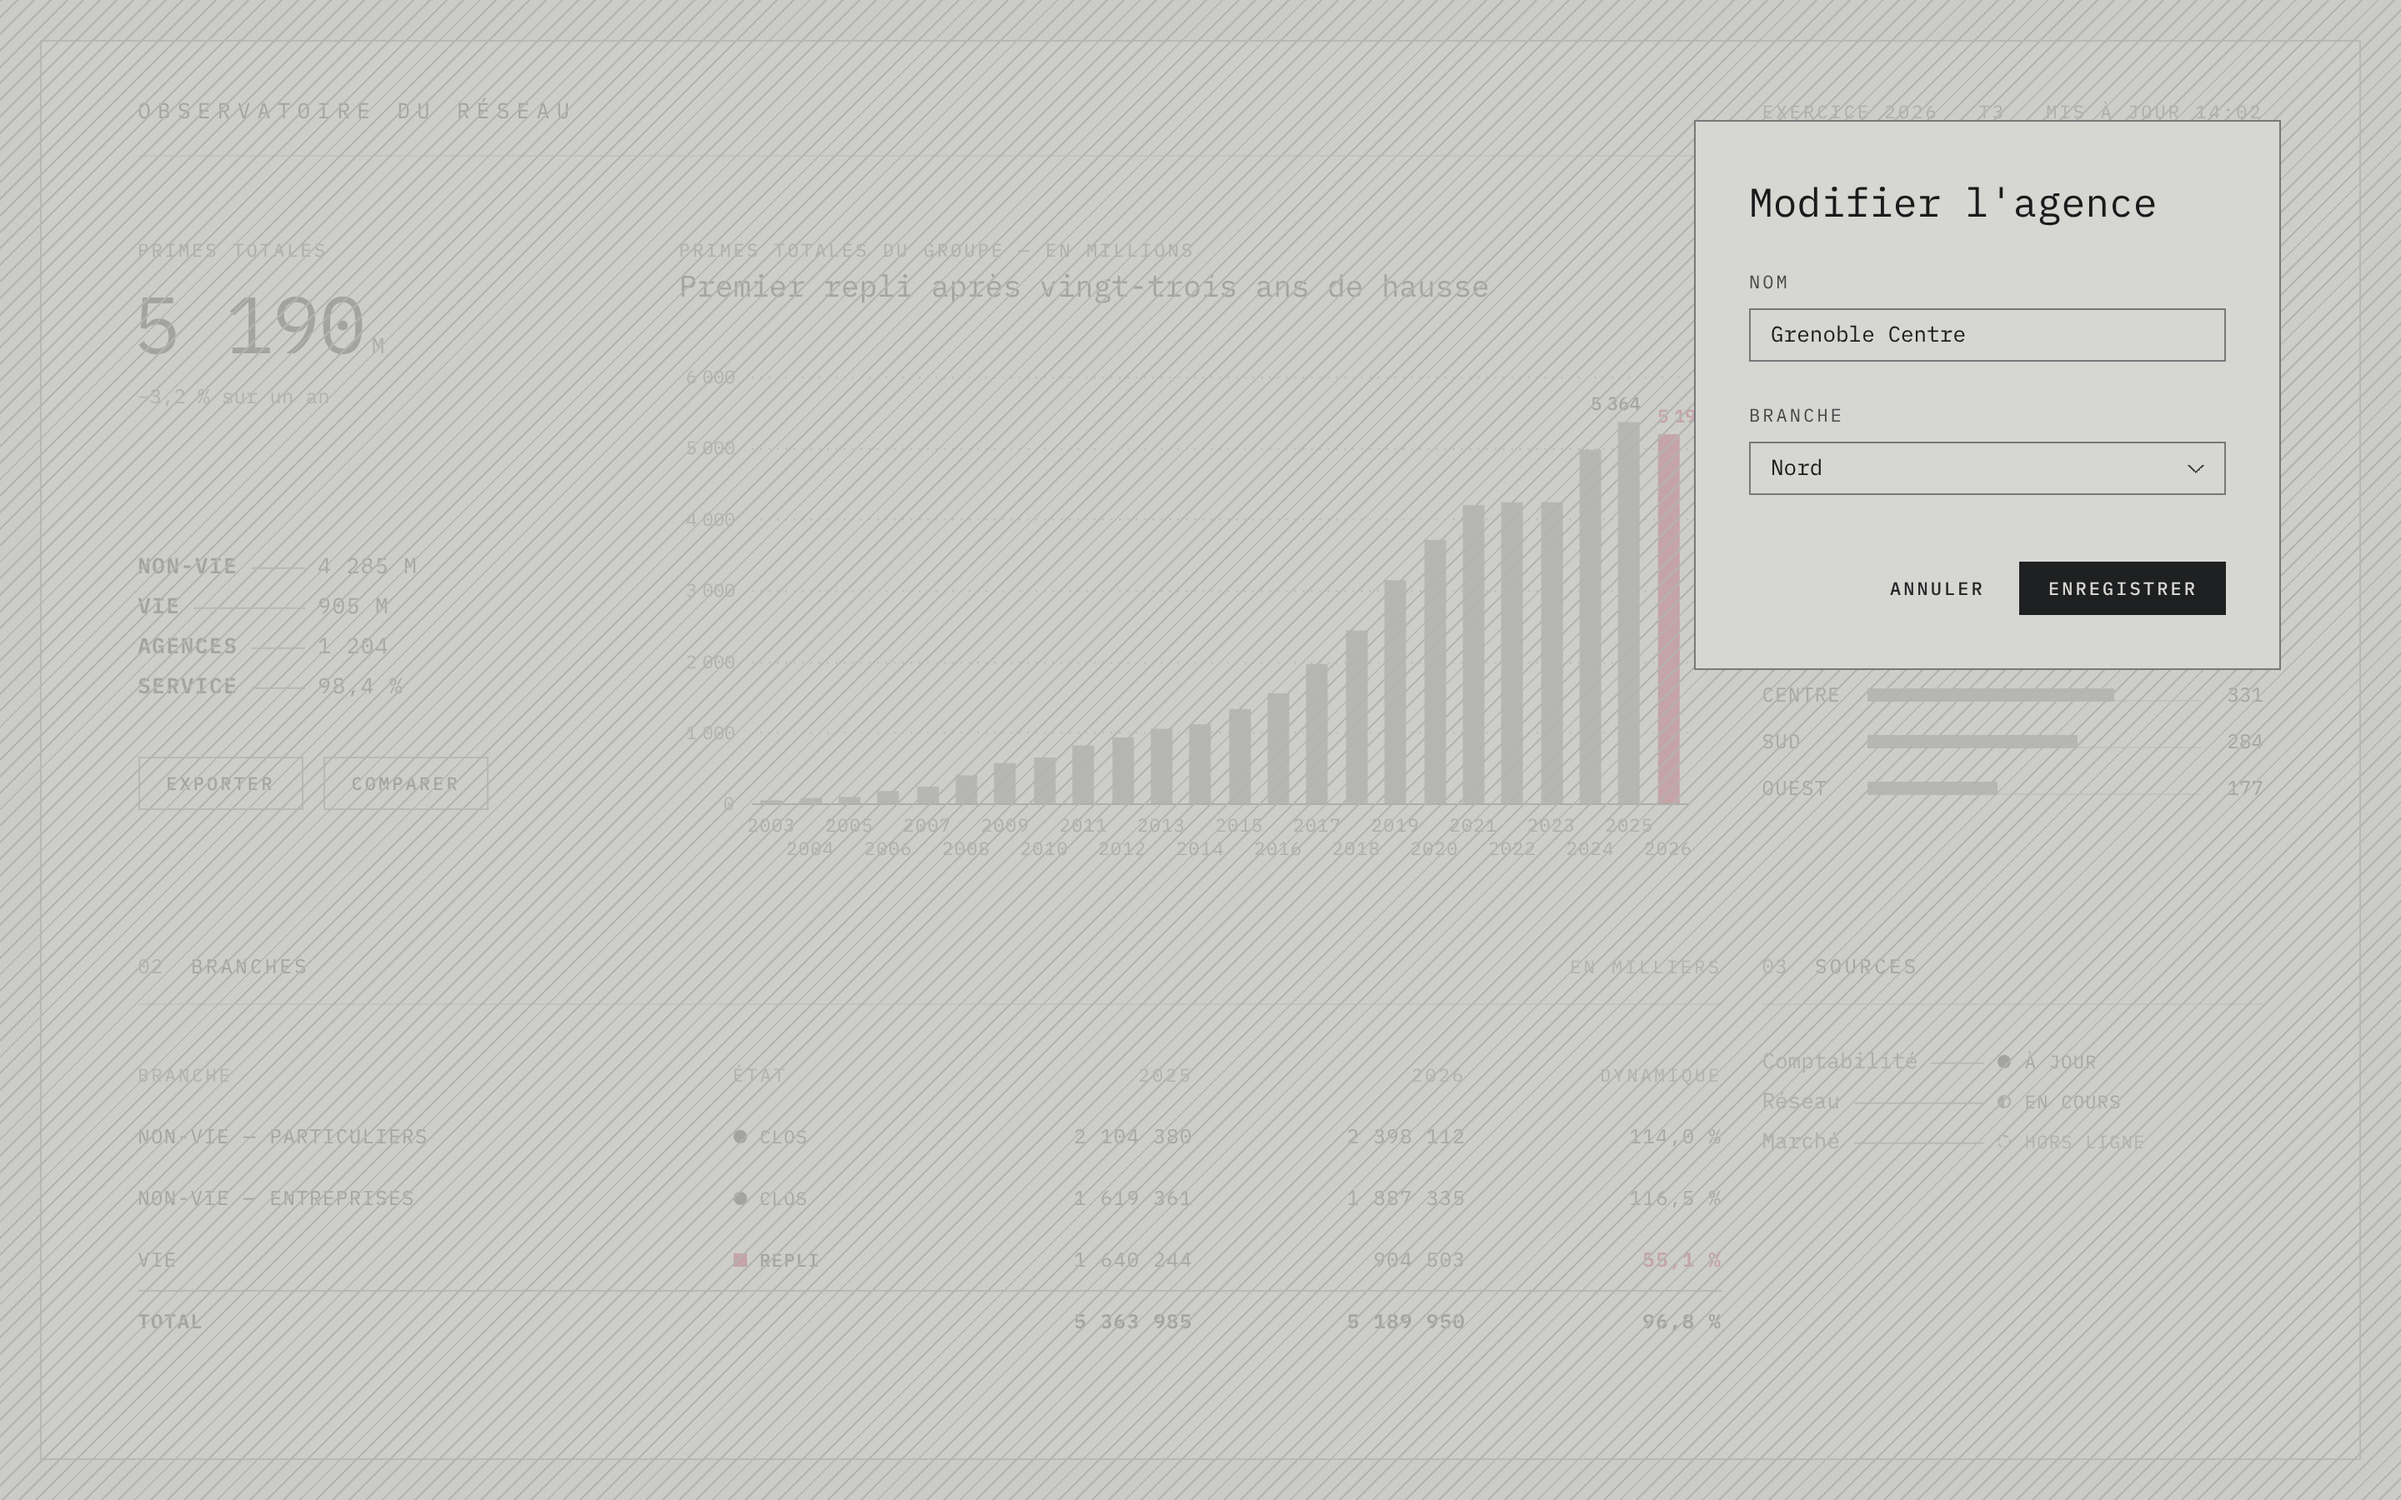
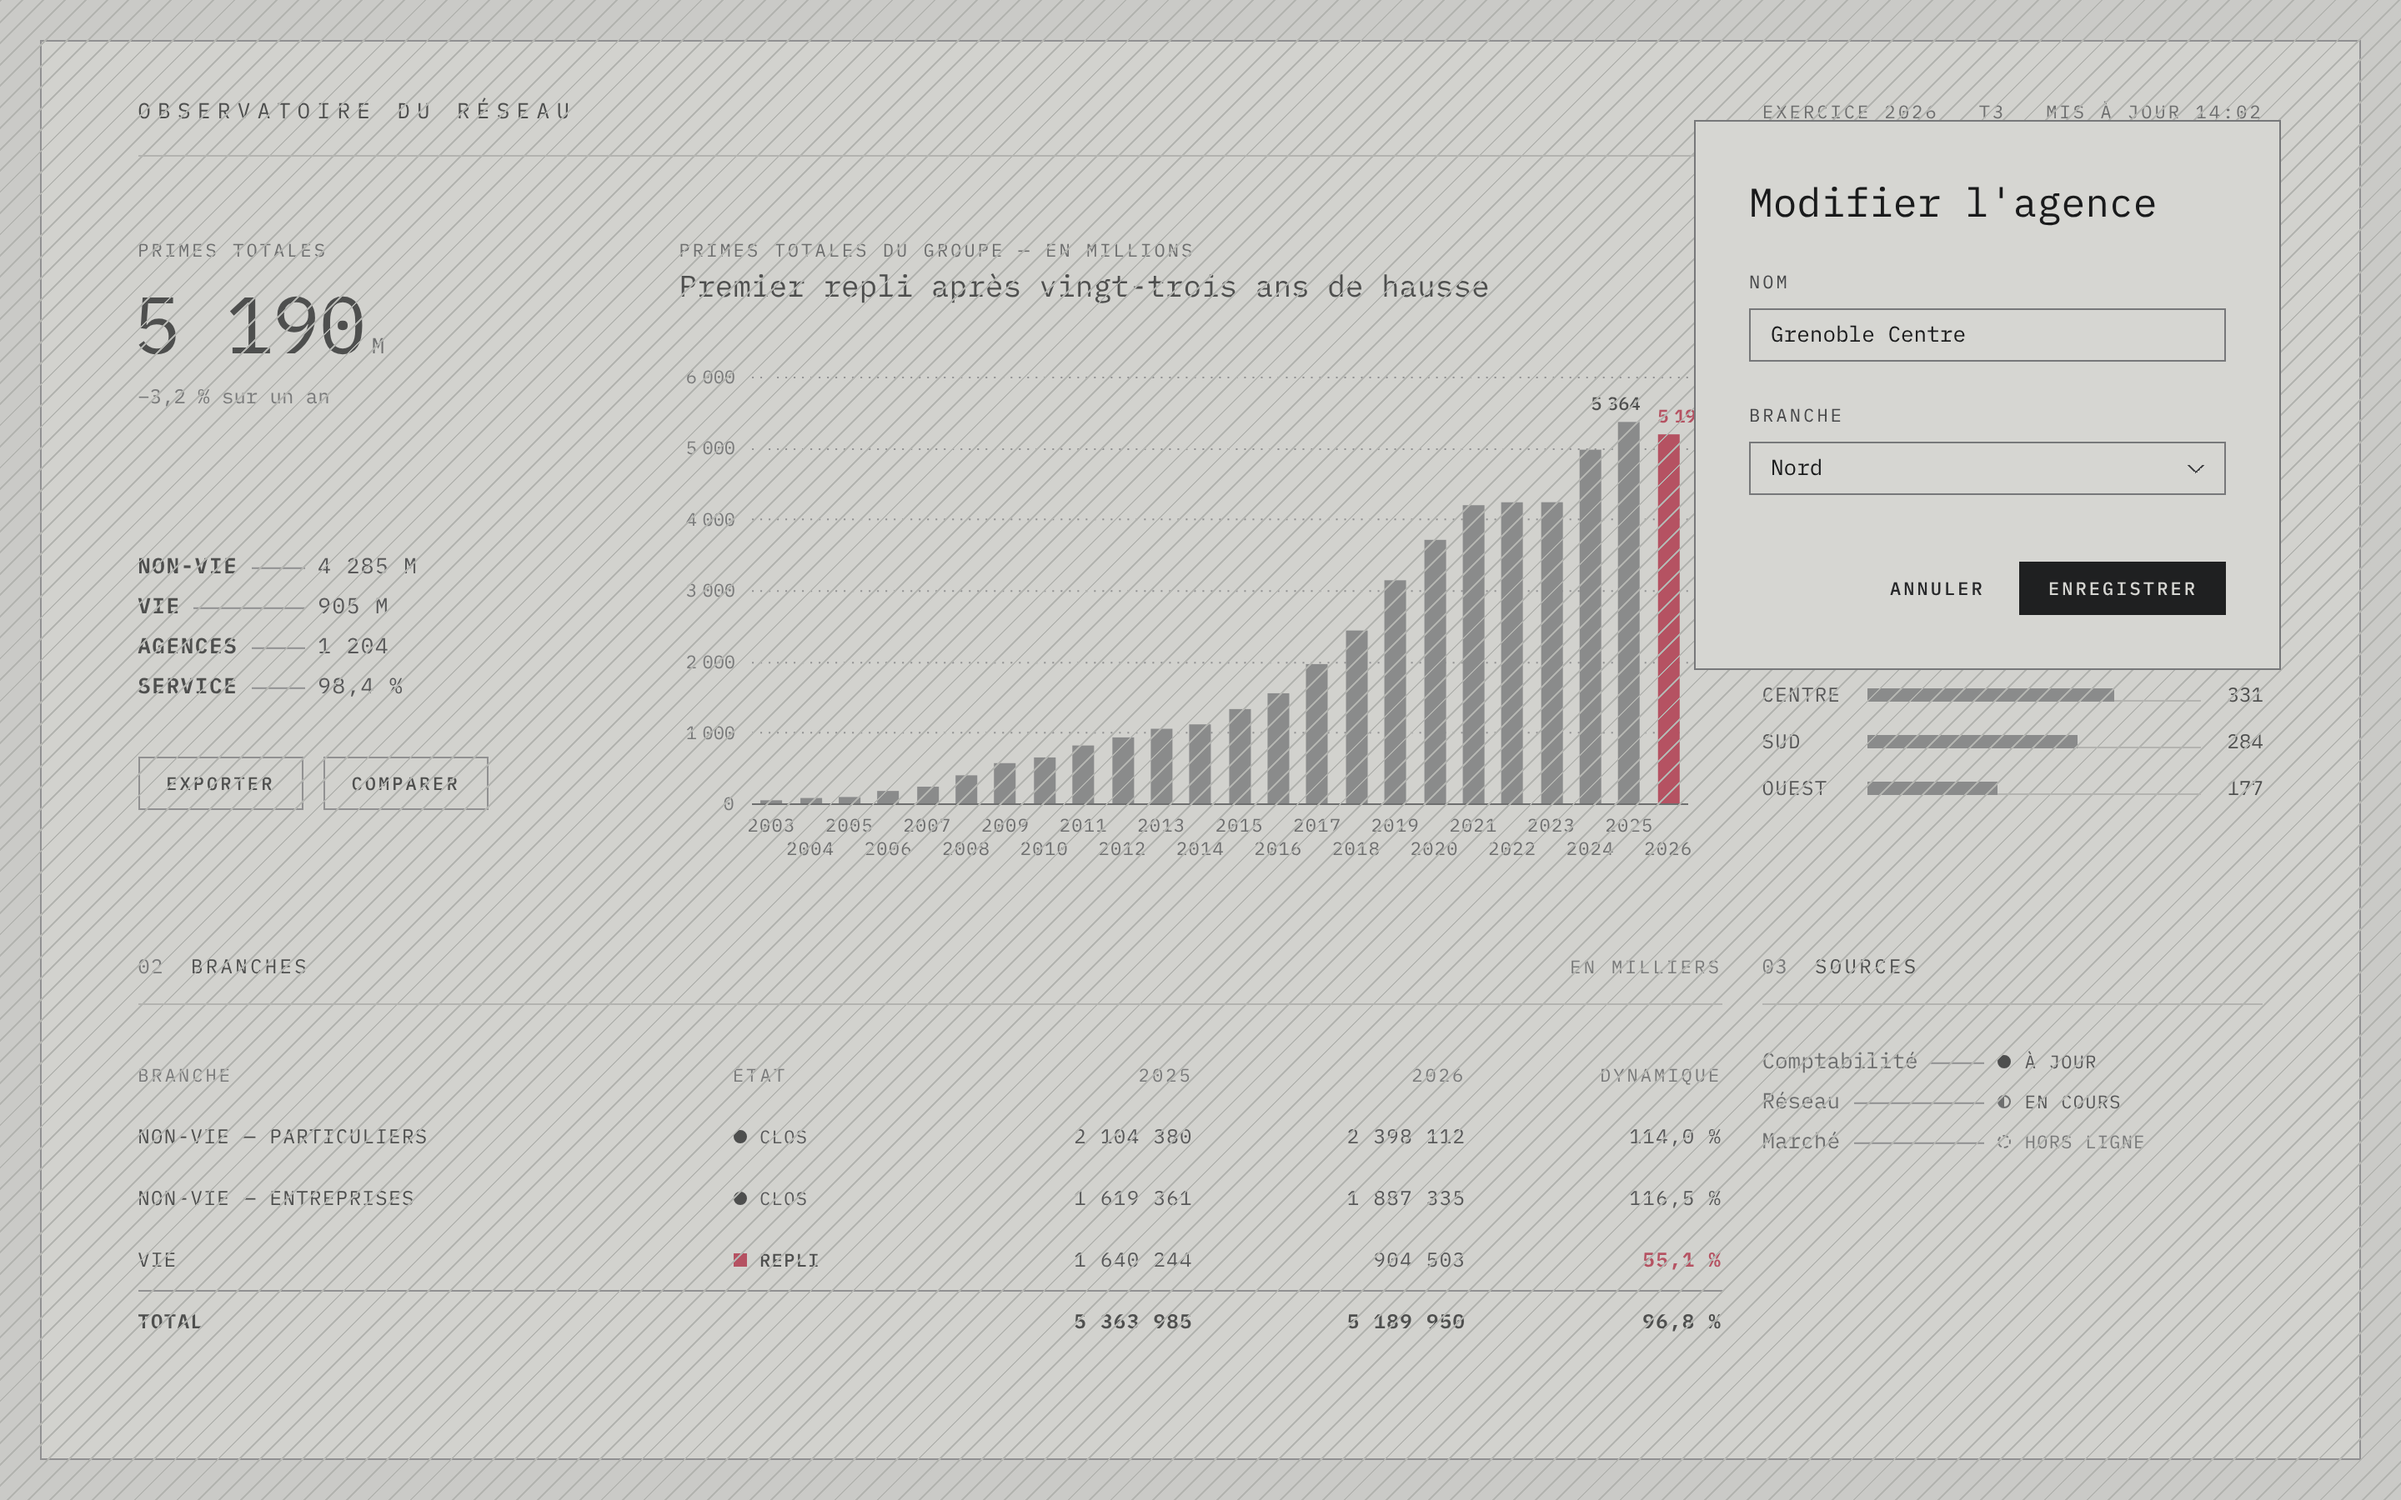
Sous une modale, la page reste lisible
Voile ramené de 78 % à 30 %, hachures espacées de 7 à 9 px : on garde
le contexte, et ce sont les hachures qui disent que la page ne répond
plus. Règle K4 réécrite, captures refaites. Décision D-052.

Claude-Session: https://claude.ai/code/session_01Jzhjh4Bm92CMpkoPPaRiQr

Changed region(s): [[0.0, 0.0311, 1.0, 0.9956]]

diff --git a/catalogue/assets/search-index.js b/catalogue/assets/search-index.js
@@ -98,7 +98,7 @@ window.MonoSearchIndex = {"pages":[["index.html","Présentation"],["fondations.h
 {"p":2,"id":"regle-k6","y":"regle","t":"À gauche la collection, à droite le détail","c":"K6","s":"Cadre","k":"","x":"L'inspecteur est permanent et ne bloque rien : on change de ligne sans le fermer, et la bande de plan de travail qui le sépare de la collection se saisit pour le redimensionner. Le détail d'un élément ne s'ouvre jamais en modale."},
 {"p":2,"id":"regle-k8","y":"regle","t":"Pas de cloison dans la page","c":"K8","s":"Cadre","k":"","x":"Deux régions d'une même page se séparent par l'espace — au moins 64 px, quatre fois l'écart interne — jamais par un filet vertical. Les filets horizontaux qui s'arrêtent net et un axe de texte propre suffisent à dire où l'une finit."},
 {"p":2,"id":"regle-k7","y":"regle","t":"Dans la page, ou hors de la page","c":"K7","s":"Cadre","k":"","x":"L'image dit à qui un contenu appartient. Séparé par l'espace seul, il est dans la page : il suit son onglet. Posé à côté, dans sa propre page à contour, il est hors de la page : il ne dépend d'aucun onglet. Un inspecteur est attaché par défaut ; on l'épingle pour le sortir, on le rattache pour le rentrer."},
-{"p":2,"id":"regle-k4","y":"regle","t":"Légères","c":"K4","s":"Cadre","k":".t-label","x":"Traits d'un pixel à 135°, tous les 7 px, sur un voile au ton du plan de travail. Défilement Puisque la page a un contour, elle ne peut pas glisser hors de l'écran : le contour resterait ouvert. La page tient dans l'écran, et c'est ce qu'elle contient qui défile."},
+{"p":2,"id":"regle-k4","y":"regle","t":"Lisible dessous","c":"K4","s":"Cadre","k":".t-label","x":"Sous une modale, la page garde son contexte : le voile est léger (30 %) et l'on peut encore la lire. Ce sont les hachures — un pixel, à 135°, tous les 9 px — qui disent qu'elle ne répond plus. Défilement Puisque la page a un contour, elle ne peut pas glisser hors de l'écran : le contour resterait ouvert. La page tient dans l'écran, et c'est ce qu'elle contient qui défile."},
 {"p":2,"id":"regle-s1","y":"regle","t":"L'écran ne défile jamais","c":"S1","s":"Cadre","k":"","x":"Le plan de travail occupe exactement l'écran et la page y tient entière, contour compris. C'est le contenu de la page qui défile, à l'intérieur de son contour : le cadre ne bouge pas."},
 {"p":2,"id":"regle-s2","y":"regle","t":"Une seule zone défile","c":"S2","s":"Cadre","k":".l-pane__body .l-shell","x":"Par page et par axe. Dans une application, c'est le corps du volet ( .l-pane__body ) ; dans un document, c'est la page ( .l-shell ). Jamais une zone défilante dans une autre sur le même axe : ni tableau à hauteur fixe dans un volet, ni liste dans une fiche."},
 {"p":2,"id":"regle-s3","y":"regle","t":"Ce qui situe reste en place","c":"S3","s":"Cadre","k":"","x":"En-tête, onglets, fil d'Ariane, barre d'état et en-tête de tableau figé ne défilent pas. Un filet n'apparaît sous l'en-tête que lorsque du contenu est passé dessous, au-dessus de la barre d'état que lorsqu'il en reste : au repos, aucun trait."},

diff --git a/catalogue/composition.html b/catalogue/composition.html
@@ -302,7 +302,7 @@
             <div class="cat-rule" id="regle-k6" data-search="regle"><span class="cat-rule__num">K6</span><h3>À gauche la collection, à droite le détail</h3><p>L'inspecteur est permanent et ne bloque rien : on change de ligne sans le fermer, et la bande de plan de travail qui le sépare de la collection se saisit pour le redimensionner. Le détail d'un élément ne s'ouvre jamais en modale.</p></div>
             <div class="cat-rule" id="regle-k8" data-search="regle"><span class="cat-rule__num">K8</span><h3>Pas de cloison dans la page</h3><p>Deux régions d'une même page se séparent par l'espace — au moins 64 px, quatre fois l'écart interne — jamais par un filet vertical. Les filets horizontaux qui s'arrêtent net et un axe de texte propre suffisent à dire où l'une finit.</p></div>
             <div class="cat-rule" id="regle-k7" data-search="regle"><span class="cat-rule__num">K7</span><h3>Dans la page, ou hors de la page</h3><p>L'image dit à qui un contenu appartient. Séparé par l'espace seul, il est dans la page : il suit son onglet. Posé à côté, dans sa propre page à contour, il est hors de la page : il ne dépend d'aucun onglet. Un inspecteur est attaché par défaut ; on l'épingle pour le sortir, on le rattache pour le rentrer.</p></div>
-            <div class="cat-rule" id="regle-k4" data-search="regle"><span class="cat-rule__num">K4</span><h3>Légères</h3><p>Traits d'un pixel à 135°, tous les 7 px, sur un voile au ton du plan de travail.</p></div>
+            <div class="cat-rule" id="regle-k4" data-search="regle"><span class="cat-rule__num">K4</span><h3>Lisible dessous</h3><p>Sous une modale, la page garde son contexte : le voile est léger (30 %) et l'on peut encore la lire. Ce sont les hachures — un pixel, à 135°, tous les 9 px — qui disent qu'elle ne répond plus.</p></div>
           </div>
           <h3 class="t-label" id="defilement-titre">Défilement</h3>
           <p class="cat-note">Puisque la page a un contour, elle ne peut pas glisser hors de l'écran : le contour resterait ouvert. La page tient dans l'écran, et c'est ce qu'elle contient qui défile.</p>

diff --git a/src/components.css b/src/components.css
@@ -306,9 +306,10 @@ th[aria-sort="ascending"] .c-table__sort .c-icon, th[aria-sort="descending"] .c-
 .c-dialog[open] { display: flex; flex-direction: column; }
 /* Fond d'une modale : la page dessous est hachurée. En dessin technique, une zone hachurée est
    une zone exclue — c'est exactement ce qu'elle est tant que la modale est ouverte. Les hachures
-   n'apparaissent nulle part ailleurs. (repeating-linear-gradient ne sert qu'à tracer des traits
+   n'apparaissent nulle part ailleurs. Le voile est léger (30 %) : la page reste lisible dessous,
+   on garde son contexte ; ce sont les hachures qui disent qu'elle ne répond plus. (repeating-linear-gradient ne sert qu'à tracer des traits
    nets d'un pixel : il n'y a aucun dégradé visible.) */
-.c-dialog::backdrop { background-color: color-mix(in srgb, var(--desk) 78%, transparent); background-image: repeating-linear-gradient(135deg, var(--hatch) 0, var(--hatch) 1px, transparent 1px, transparent 7px); }
+.c-dialog::backdrop { background-color: color-mix(in srgb, var(--desk) 30%, transparent); background-image: repeating-linear-gradient(135deg, var(--hatch) 0, var(--hatch) 1px, transparent 1px, transparent 9px); }
 /* --small : une question d'une ligne. --large : contenu large (tableau, « Aller à »), centré. */
 .c-dialog--small { width: min(18rem, calc(100vw - 2rem)); }
 .c-dialog--large { width: min(48rem, calc(100vw - 2rem)); margin: 12vh auto auto; max-height: min(76vh, 44rem); }

diff --git a/docs/decisions.md b/docs/decisions.md
@@ -72,6 +72,7 @@ Les principes eux-mêmes sont dans `philosophie.md` ; ici, c'est leur histoire.
 | D-049 | Modales portrait : le chiffre, l'étiquette, la colonne | adoptée, voir D-050 |
 | D-050 | La modale est portrait par défaut | remplacée par D-051 |
 | D-051 | La modale est excentrée à droite, minimale | en vigueur |
+| D-052 | Sous une modale, la page reste lisible | en vigueur |
 
 ---
 
@@ -468,3 +469,11 @@ Les principes eux-mêmes sont dans `philosophie.md` ; ici, c'est leur histoire.
 - **Réserve de Claude** : `--column` à droite a la forme du tiroir supprimé en D-020. Elle s'en distingue par l'usage — un formulaire à valider, pas le détail d'un élément — mais la ressemblance est réelle ; à surveiller.
 - **Gardé de D-049** : `__stake` et les compositions « chiffre » et « étiquette », pour les cas où la phrase ne suffit pas.
 - **Non retenu pour l'instant** : la confirmation en place dans la ligne du tableau, que Claude recommandait ; elle reste une piste pour les actions qui ont une ligne d'origine.
+
+## D-052 — Sous une modale, la page reste lisible
+
+- **Date** : 2026-11-12 · **Statut** : en vigueur · **Demandée par** : le commanditaire · **Précise** : D-041
+- **Contexte** : le fond de modale de D-041 (voile à 78 %, hachures tous les 7 px) éteignait presque la page. Or une modale excentrée (D-051) n'a de sens que si l'on voit encore ce sur quoi l'on agit.
+- **Décision** : voile à 30 %, hachures tous les 9 px. La page reste lisible ; ce sont les hachures seules qui disent qu'elle n'est plus interactive.
+- **Comparé** : 45 % / 7 px (encore trop éteint), 30 % / 9 px (retenu), 18 % / 11 px (la page concurrence la modale, surtout en papier).
+- **Limite** : le texte hachuré se lit mais ne se parcourt pas confortablement ; c'est voulu, la page est un contexte, plus une surface de travail.

diff --git a/docs/composition.md b/docs/composition.md
@@ -77,8 +77,9 @@ le plan : un fond uni, un ton plus sombre que la page, visible sur une bande de 
   seul ton, sans motif. Les hachures n'apparaissent qu'à un moment : sous une
   modale, où elles couvrent la page devenue hors d'atteinte. Jamais comme fond de
   page, de composant ou de graphique.
-- **K4 — Légères.** Traits d'un pixel à 135°, tous les 7 px, sur un voile au ton
-  du plan de travail (`.c-dialog::backdrop`).
+- **K4 — Lisible dessous.** Sous une modale, la page garde son contexte : le voile
+  est léger (30 %) et l'on peut encore la lire. Ce sont les hachures — un pixel, à
+  135°, tous les 9 px — qui disent qu'elle ne répond plus (`.c-dialog::backdrop`).
 
 - **K7 — Dans la page, ou hors de la page.** L'image dit à qui un contenu
   appartient. Séparé par l'espace seul (`.l-detail`), il est dans la page : il suit
